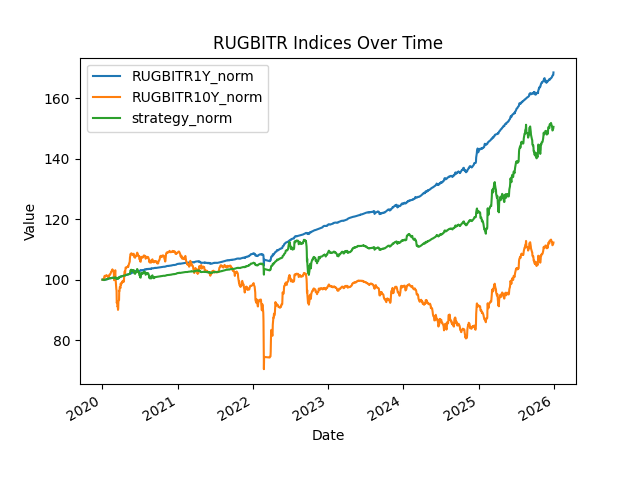
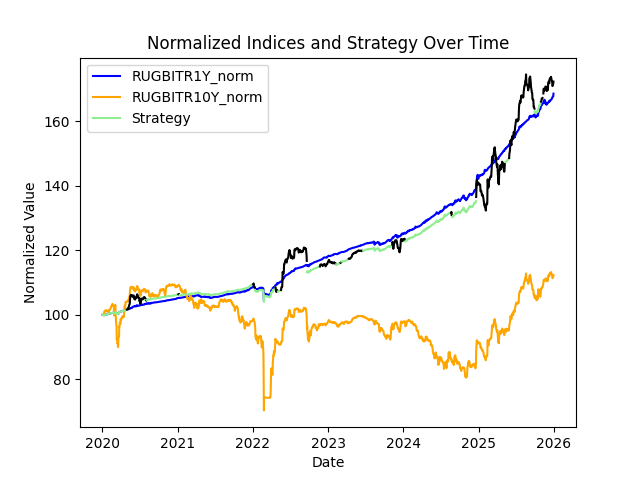
222

diff --git a/load_csv.py b/load_csv.py
@@ -3,6 +3,27 @@ import pandas as pd
 import math
 import matplotlib.pyplot as plt
 
+
+# Его суть такова. Если индекс чистых цен средних ОФЗ (RUGBICP3Y) за последние 3 месяца показал 
+# положительную доходность, то берем дальние ОФЗ (индекс RUGBITR10Y). 
+# Если отрицательную - то перекладываемся в самые ближние бумаги (индекс RUGBITR1Y).
+
+# Проведем такой же фокус с корпоративными облигациями. 
+# В качестве дальних возьмем индекс RUCBTR5YNS, а в качестве ближних RUCBITR1Y. 
+# Что касается индекса чистых цен средних облигаций, 
+# то здесь попробуем две опции: 
+# 1) ориентироваться на RUCBCP3YNS; 
+# 2) вместо корпоративных смотреть на динамику ОФЗ RUGBICP3Y.
+
+# С апреля 2019 по ноябрь 2025 такой моментум на корпоративных бондах принес 111,6%, 
+# если ориентироваться на RUCBCP3YNS, и 132,2%, 
+# если ориентироваться RUGBICP3Y. 
+# Индекс корпоративных облигаций RUCBTRNS вырос на 80,6%. 
+# Издержки здесь не учтены. 
+# Но перекладываний из дальних в ближнее было очень немного, 
+# а бид-аск спреды в облигациях из названных выше индексов, в отличие от ВДО, незначительны.
+
+
 def load_csv_to_dataframe(file_path):
     """
     Loads a CSV file into a pandas DataFrame.
@@ -40,7 +61,7 @@ def simulate(df: pd.DataFrame, initial_investment=100000) -> tuple[float, int]:
     invest = initial_investment
     roatations: int = 0
     for index, row in df.iterrows():
-        print(f"Date: {index}, Row Data: {row['state']} {invest}")
+        #print(f"Date: {index}, Row Data: {row['state']} {invest}")
         if state is None:
             position = invest / row['RUGBITR1Y.INDX']
             state = '1Y'   
@@ -86,13 +107,28 @@ def truncate_df(df, from_date, to_date):
     return df.loc[from_date:to_date]
 
 def plot_df(df):
-    df[['RUGBITR1Y_norm', 'RUGBITR10Y_norm','strategy_norm']].plot()
-    plt.title('RUGBITR Indices Over Time')
+    fig, ax = plt.subplots()
+    ax.plot(df.index, df['RUGBITR1Y_norm'], color='blue', label='RUGBITR1Y_norm')
+    ax.plot(df.index, df['RUGBITR10Y_norm'], color='orange', label='RUGBITR10Y_norm')
+    current_color = 'black' if df['state'].iloc[0] == '10Y' else 'lightgreen'
+    start_idx = 0
+    strategy_label_added = False
+    for i in range(1, len(df)):
+        if df['state'].iloc[i] != df['state'].iloc[i-1]:
+            label = 'Strategy' if not strategy_label_added else None
+            ax.plot(df.index[start_idx:i], df['strategy_norm'].iloc[start_idx:i], color=current_color, label=label)
+            if label:
+                strategy_label_added = True
+            current_color = 'lightgreen' if df['state'].iloc[i] == '1Y' else 'black'
+            start_idx = i
+    label = 'Strategy' if not strategy_label_added else None
+    ax.plot(df.index[start_idx:], df['strategy_norm'].iloc[start_idx:], color=current_color, label=label)
+    plt.title('Normalized Indices and Strategy Over Time')
     plt.xlabel('Date')
-    plt.ylabel('Value')
+    plt.ylabel('Normalized Value')
     plt.legend()
     plt.savefig('plot.png')
-    print("Plot saved as plot.png")
+    
 
 def normalize_columns(df):
     df['RUGBITR1Y_norm'] = df['RUGBITR1Y.INDX'] / df['RUGBITR1Y.INDX'].iloc[0] * 100
